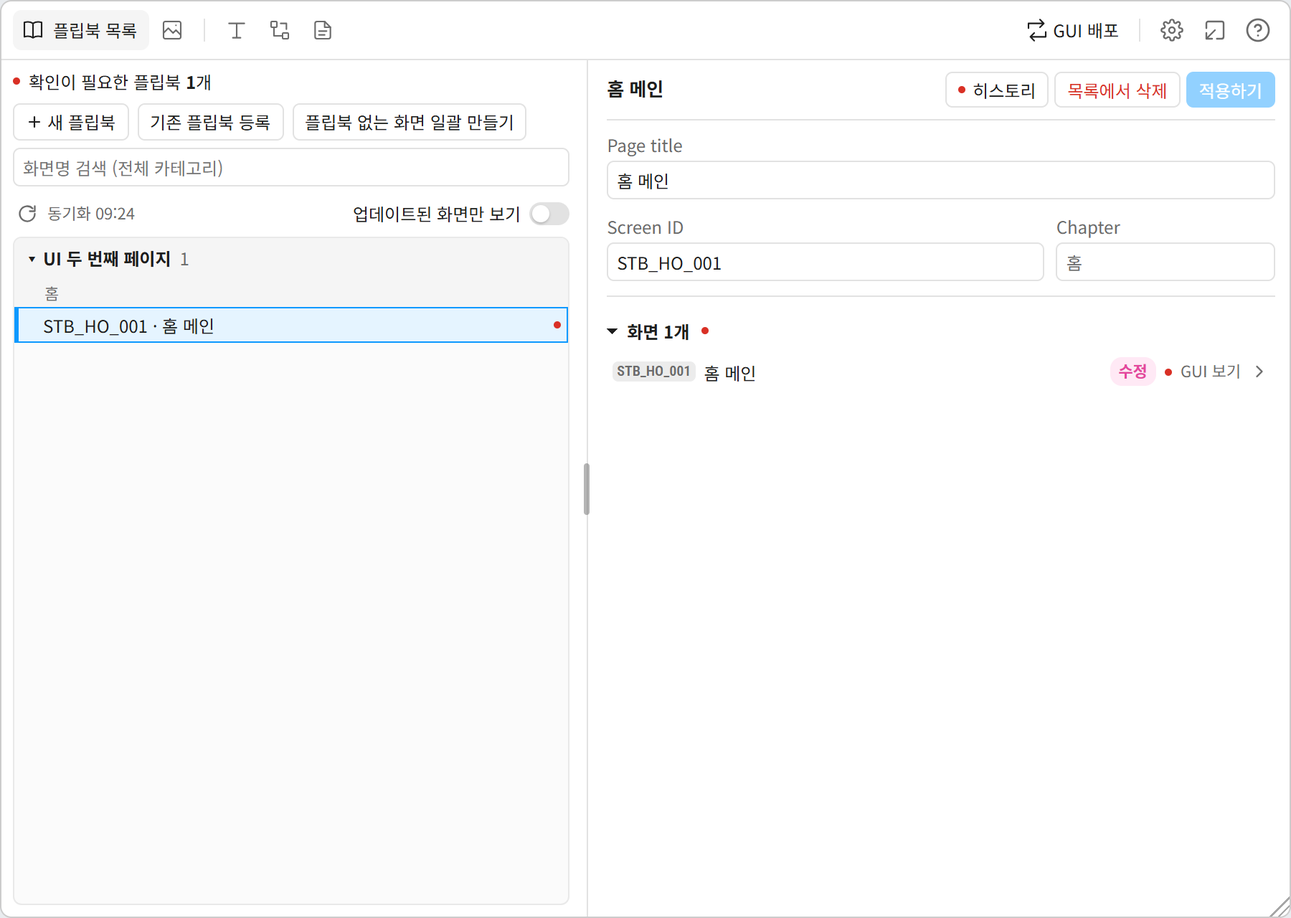
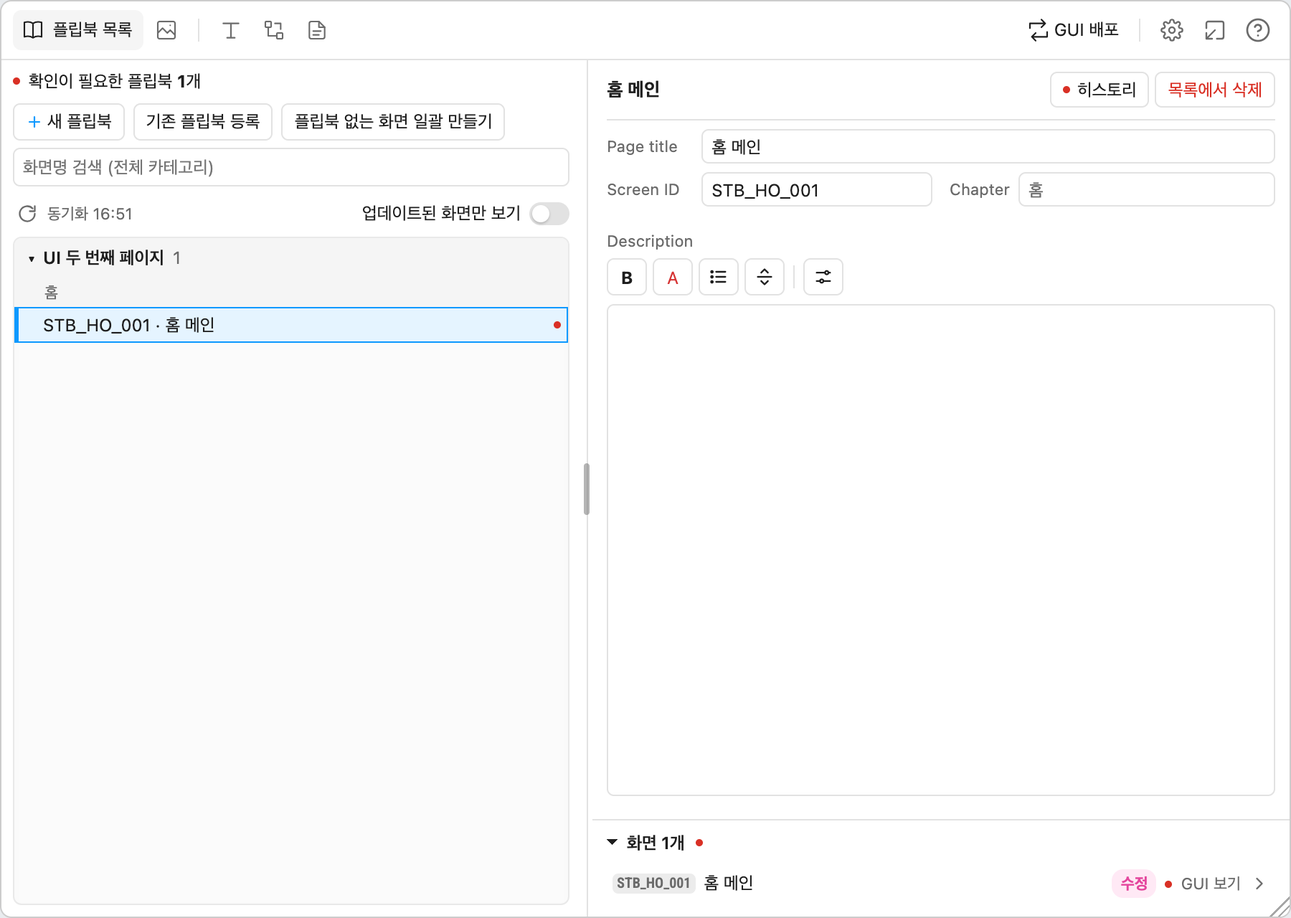
Review release changes and refresh pre-release help

diff --git a/release/guide.html b/release/guide.html
@@ -180,7 +180,7 @@ footer { color: var(--muted); font-size: 13px; text-align: center; margin-top: 2
     <li><b>실행</b><span class="ui">Plugins</span> → <span class="ui">Development</span> → <span class="ui">GUI·UI Publish</span>에서 <span class="ui">GUI Publish</span> 또는 <span class="ui">UI Flipbook</span>을 고릅니다. <kbd>Ctrl</kbd>+<kbd>/</kbd>(Mac은 <kbd>⌘</kbd>+<kbd>/</kbd>)로 열리는 빠른 실행 창에서 이름으로 찾아도 됩니다.</li>
   </ol>
   <h3>업데이트</h3>
-  <p>새 버전이 나오면 아래 링크에서 최신 zip을 받아, 처음 설치한 폴더에 압축을 풀어 <b>덮어씁니다</b>. 다시 불러올 필요 없이 플러그인을 다시 실행하면 새 버전이 적용됩니다. 지금 버전은 이 문서 맨 위에 적혀 있습니다.</p>
+  <p>새 버전은 <span class="ui">관리</span> → <span class="ui">업데이트</span>에서 확인합니다. <b>최신 버전</b>은 이 Figma 파일에서 사용한 가장 높은 배포 버전입니다. 현재 버전보다 높으면 관리 버튼과 메뉴에 파란 점이 표시됩니다. <span class="ui">최신 버전 받기</span>로 zip을 받아 처음 설치한 폴더에 압축을 풀어 <b>덮어씁니다</b>. 플러그인을 다시 실행하면 새 버전이 적용됩니다. 이 기능이 처음 포함된 버전으로 옮길 때는 아래 링크에서 직접 받으세요.</p>
   <a class="download" href="{{DOWNLOAD_URL}}">최신 버전 받기</a>
 </section>
 
@@ -190,14 +190,15 @@ footer { color: var(--muted); font-size: 13px; text-align: center; margin-top: 2
   <p>머리의 <span class="ui">플립북 관리</span>(UI Flipbook에서는 <span class="ui">GUI 배포</span>) 버튼을 누르면 플러그인을 다시 열지 않고 다른 작업 화면으로 바꿉니다.</p>
 
   <h3>관리</h3>
-  <p>왼쪽 메뉴에서 항목을 고르면 오른쪽에 내용이 나옵니다. 메뉴는 <b>작업 환경</b>(GUI 페이지 · 플립북 페이지 · 카테고리), <b>템플릿</b>(템플릿 · 화면 크기), <b>시스템</b>(제외 설정 · 자동 관리 페이지), <b>관리자</b> 순서입니다.</p>
+  <p>왼쪽 메뉴에서 항목을 고르면 오른쪽에 내용이 나옵니다. 메뉴는 <b>작업 환경</b>(GUI 페이지 · 플립북 페이지 · 카테고리), <b>템플릿</b>(템플릿 · 화면 크기), <b>시스템</b>(제외 설정 · 자동 관리 페이지 · 업데이트), <b>관리자</b> 순서입니다.</p>
   <ol class="steps">
     <li><b>GUI 페이지</b>변경사항을 확인할 GUI 원본 페이지를 추가합니다. 여러 페이지를 지정할 수 있습니다. 화면 프레임은 페이지 최상위나 Section 안(중첩 Section 포함)에 있어야 찾을 수 있습니다.</li>
     <li><b>카테고리</b>카테고리 이름·코드를 추가·수정·삭제하고 플랫폼 Prefix를 정합니다. 화면정보에서는 카테고리를 선택하거나 「관리」 링크로 이동합니다. 자동으로 만드는 Screen ID는 <code>{Prefix}_{카테고리 코드}_{번호 3자리}</code> 형식입니다(예: <code>STB_HO_001</code>). 코드를 비우고 추가하면 이름에서 두 글자로 자동 생성됩니다. 카테고리 이름은 플립북 Chapter에도 사용하며, Chapter 입력란은 비활성화됩니다.</li>
     <li><b>플립북 페이지</b>플립북을 둘 페이지를 하나 이상 추가합니다.</li>
     <li><b>템플릿</b>플립북을 만들 템플릿 목록입니다. <span class="ui">기본 템플릿 만들기</span>로 새 템플릿을 만들거나, 캔버스에서 프레임을 고른 뒤 <span class="ui">선택한 프레임을 템플릿으로 추가</span>를 누릅니다. 새 플립북은 <span class="ui">대표</span> 템플릿으로 만들고, 다른 템플릿으로 만든 플립북은 반영할 때 그 템플릿을 씁니다. 줄을 누르면 그 템플릿의 연결 항목이 아래에 나옵니다(아래 「템플릿 요건」).</li>
-    <li><b>화면 크기</b>플립북에 넣는 GUI 복사본의 최대 가로 크기입니다(기본 1440). <span class="ui">기본</span>은 원본이 이 값보다 클 때만 축소하고, <span class="ui">작게</span>는 그 0.49배로 넣습니다. GUI 영역의 크기와 Fill/Hug 설정은 템플릿 그대로 유지합니다.</li>
+    <li><b>화면 크기</b>플립북에 넣는 GUI 복사본의 최대 가로 크기입니다(기본 1440). 원본이 이 값보다 클 때 축소하며, GUI 영역의 크기와 Fill/Hug 설정은 템플릿 그대로 유지합니다.</li>
     <li><b>자동 관리 페이지</b>DATA 페이지 연결·생성·갱신 상태를 확인하고, GUI 썸네일 페이지를 만들거나 해당 페이지로 이동합니다. 두 페이지의 이름은 <b>[자동 관리] DATA</b>, <b>[자동 관리] GUI 썸네일</b>입니다.</li>
+    <li><b>업데이트</b>현재 버전과 이 파일에 기록된 최신 버전을 확인하고 최신 zip을 받습니다.</li>
     <li><b>관리자</b>반영 상태(미완료 반영과 재시도), 최근 감사 기록, 진단, 데이터 초기화를 한 화면에서 봅니다.</li>
   </ol>
   <p>작업자는 관리에서 등록하지 않고, GUI 배포 때 아래 줄에 직접 적습니다.</p>
@@ -290,14 +291,14 @@ footer { color: var(--muted); font-size: 13px; text-align: center; margin-top: 2
   <h2>UI Flipbook 사용법</h2>
   <h3>플립북 만들기</h3>
   <ol class="steps">
-    <li><b>새 플립북</b>목록 위 <span class="ui">새 플립북</span>을 누르면 고른 플립북 바로 다음 자리에, 고른 플립북이 없으면 지금 보고 있는 플립북 페이지에 새 플립북이 미리보기로 들어갑니다. 이미 만든 플립북도 드래그하거나 <kbd>Alt</kbd>+<kbd>↑</kbd><kbd>↓</kbd>로 옮길 수 있고, 다른 Section에 놓으면 그 Section으로 옮겨집니다. 만들 때 캔버스 배치에도 반영할지 묻습니다(<span class="ui">반영하지 않음</span>은 원래 순서로 되돌림). <span class="ui">만들기</span>를 누르기 전에는 저장되지 않습니다. 드래그하거나 <kbd>Alt</kbd>+<kbd>↑</kbd><kbd>↓</kbd>로 자리를 옮기고 X로 지웁니다.</li>
-    <li><b>위치·제목</b>오른쪽 <span class="ui">플립북 편집</span>에서 플립북을 놓을 페이지와 Section을 고르고, 그 아래 제목을 입력합니다. 새 Section도 추가할 수 있습니다. 목록에서는 이름을 더블클릭하거나 이름 오른쪽 연필을 눌러 그 자리에서 고칩니다. 제목을 비우면 첫 화면 이름(화면이 없으면 「새 플립북」)이 제목이 됩니다.</li>
-    <li><b>화면 고르기</b><span class="ui">화면 선택</span>에서 카테고리별로 화면을 고릅니다. 고른 화면은 후보 목록에 남고 아래 <span class="ui">선택된 화면</span> 썸네일 줄에 추가됩니다. 드래그하거나 <kbd>Alt</kbd>+<kbd>↑</kbd><kbd>↓</kbd>로 순서를 바꾸고, 썸네일의 X로 뺍니다. 화면 크기는 기본으로 적용됩니다. 화면을 고르지 않아도 만들 수 있습니다.</li>
-    <li><b>만들기</b><span class="ui">플립북 편집</span> 오른쪽 위 <span class="ui">플립북 N개 만들기</span>를 누르면 목록 순서대로 캔버스의 정한 자리에 만듭니다. <span class="ui">취소</span>는 확인 후 만들기 전 새 플립북을 모두 지웁니다.</li>
+    <li><b>새 플립북</b>목록 위 <span class="ui">새 플립북</span>을 누르면 고른 플립북 바로 다음 자리에, 고른 플립북이 없으면 지금 보고 있는 플립북 페이지에 새 플립북이 미리보기로 들어갑니다. 드래그하거나 <kbd>Alt</kbd>+<kbd>↑</kbd><kbd>↓</kbd>로 자리를 옮기고 X로 지웁니다. 기존 플립북도 옮길 수 있으며, <span class="ui">모두 적용하기</span>를 누르면 캔버스 배치에 반영할지 묻습니다(<span class="ui">반영하지 않음</span>은 원래 순서로 되돌림).</li>
+    <li><b>위치·제목</b>오른쪽에서 플립북을 놓을 페이지와 Section을 고르고, 그 아래 제목을 입력합니다. 새 Section도 추가할 수 있습니다. 목록에서는 이름을 더블클릭해 고칩니다. 제목을 비우면 첫 화면 이름(화면이 없으면 「새 플립북」)이 제목이 됩니다.</li>
+    <li><b>화면 고르기</b><span class="ui">화면 선택</span>에서 카테고리·검색·목록/그리드 보기로 화면을 찾고 행이나 카드를 클릭합니다. 고른 화면은 후보 목록에 남고 아래 <span class="ui">선택된 화면</span> 썸네일 줄에 추가됩니다. 드래그하거나 <kbd>Alt</kbd>+<kbd>↑</kbd><kbd>↓</kbd>로 순서를 바꾸고, 썸네일의 X로 뺍니다. 화면을 고르지 않아도 만들 수 있습니다.</li>
+    <li><b>만들기</b>상세 오른쪽 위 <span class="ui">만들기</span>는 그 플립북 하나를 만듭니다. 맨 아래 <span class="ui">모두 적용하기</span>는 새 플립북과 기존 플립북의 수정을 함께 반영합니다. <span class="ui">전체 취소</span>는 확인 후 아직 반영하지 않은 만들기·수정을 버립니다.</li>
   </ol>
   <figure>
     <img src="screens/ui-create.png" alt="새 플립북을 목록에 넣고 페이지·Section을 정한 뒤 화면을 선택한 모습">
-    <figcaption>새 플립북은 왼쪽 목록에 미리보기로 들어가고, 오른쪽에서 페이지·Section·화면을 정합니다. 오른쪽 위 「플립북 N개 만들기」로 캔버스에 만듭니다.</figcaption>
+    <figcaption>새 플립북은 왼쪽 목록에 미리보기로 들어가고, 오른쪽에서 페이지·Section·화면을 정합니다. 오른쪽 위 「만들기」는 그 플립북 하나만 만듭니다.</figcaption>
   </figure>
   <ul>
     <li><span class="dot yellow"></span>노란 점은 플립북이 아직 없는 화면, <span class="dot gray"></span>회색 점은 새 플립북에서 고른 화면입니다.</li>
@@ -307,10 +308,10 @@ footer { color: var(--muted); font-size: 13px; text-align: center; margin-top: 2
 
   <h3>플립북 관리 형식</h3>
   <p>목록에는 <code>Screen ID · Page title</code> 형식의 프레임 이름을 표시합니다. 이름을 더블클릭하면 Page title만 고칩니다.</p>
-  <p>목록에서 플립북 하나를 고르면 상세 제목 줄 오른쪽에 <span class="ui">히스토리</span> · <span class="ui">목록에서 삭제</span> · <span class="ui">적용하기</span>가 있고, 그 아래에 <b>Page title</b>, <b>Screen ID · Chapter</b>, 들어 있는 <b>화면 N개</b>가 나옵니다. Page title과 Screen ID를 고치고 <span class="ui">적용하기</span>를 누르면 캔버스의 제목·Screen ID·Chapter와 프레임 이름(<code>Screen ID · Page title</code>)이 바로 바뀝니다. 바꾼 내용이 없으면 적용하기는 누를 수 없습니다. Chapter는 Screen ID의 두 번째 코드에 대응하는 GUI 카테고리 이름으로 자동으로 정해지며, Section은 놓는 자리로만 씁니다. 제목의 <code>기능 - 상태</code> 형식은 검사하지 않습니다.</p>
+  <p>목록에서 플립북 하나를 고르면 상세에 <b>Page title</b>, <b>Screen ID · Chapter</b>, <b>Description</b>, 아래 고정 영역의 <b>화면 N개</b>가 나옵니다. 평소 제목 줄에는 <span class="ui">히스토리</span> · <span class="ui">목록에서 삭제</span>가 있고, Page title·Screen ID·Description을 고치면 <span class="ui">취소</span> · <span class="ui">적용하기</span>로 바뀝니다. 적용하면 캔버스의 제목·Screen ID·Chapter·Description과 프레임 이름(<code>Screen ID · Page title</code>)이 바뀝니다. Chapter는 Screen ID의 두 번째 코드에 대응하는 GUI 카테고리 이름으로 자동으로 정해지며, Section은 놓는 자리로만 씁니다. 제목의 <code>기능 - 상태</code> 형식은 검사하지 않습니다.</p>
   <p>화면이 있으면 첫 화면 ID 하나가 기본값입니다. 화면이 없으면 해당 기기·Chapter의 <code>_POLICY</code>, <code>_POLICY_02</code> 순서로 ID를 제안합니다. 카테고리를 알 수 없는 Section에서는 ID를 직접 입력합니다. 관리에서 Prefix·카테고리 코드를 바꾸면 플립북의 Screen ID도 함께 바뀝니다.</p>
   <p><b>화면 N개</b> 목록은 화면마다 한 줄입니다. 마우스를 올리면 썸네일이 보이고, <span class="ui">GUI 보기</span>를 누르면 그 화면의 GUI 원본으로 이동합니다.</p>
-  <figure><img src="screens/ui-identity.png" alt="플립북 상세: 히스토리·목록에서 삭제·적용하기 버튼, Page title, Screen ID와 Chapter, 화면 목록"><figcaption>Page title·Screen ID를 고치고 「적용하기」를 누릅니다. Chapter는 Screen ID에서 자동으로 정해집니다.</figcaption></figure>
+  <figure><img src="screens/ui-identity.png" alt="플립북 상세: Page title, Screen ID와 Chapter, Description, 아래 고정된 화면 목록"><figcaption>Page title·Screen ID·Description을 고치면 「취소」와 「적용하기」가 나타납니다. Chapter는 Screen ID에서 자동으로 정해집니다.</figcaption></figure>
   <h3>플립북 목록</h3>
   <p>직접 만든 플립북도 목록에 넣을 수 있습니다. 관리에서 그 페이지를 플립북 페이지로 지정하고, 캔버스에서 플립북의 바깥쪽 프레임을 선택한 뒤 <span class="ui">기존 플립북 등록</span>을 누르세요. 여러 프레임을 함께 등록할 수 있고, 다시 눌러도 중복 추가하지 않습니다. 이름·내용·위치·크기를 유지하며, 일반 화면 레이어를 GUI 원본에 자동 연결하지는 않습니다.</p>
   <ul>
@@ -349,11 +350,11 @@ footer { color: var(--muted); font-size: 13px; text-align: center; margin-top: 2
   <p>새 템플릿 플립북의 초기 상태는 <b>작성 전</b>이며 이후 가장 최근에 받은 GUI 또는 UI 태그를 표시합니다. 확인 완료의 기본 상태는 <b>현행</b>(이전 이름 「최신」)입니다.</p>
 
   <h3>텍스트 편집기</h3>
-  <p>Description에 중첩 목록, 굵은 글씨, 확인이 필요한 내용의 빨간 글씨를 넣을 때 씁니다. 머리의 <span class="ui">텍스트 편집기</span> 탭에서 합니다. 플립북 안의 아무 레이어나 고르면 그 플립북의 Description에 굵은 제목 줄마다 제목·본문을 묶어 넣고, 플립북 밖의 텍스트 레이어 하나를 고르면 그 레이어에만 넣습니다. 플립북 밖의 프레임 하나를 고르면 그 안에 같은 제목·본문 묶음을 오토 레이아웃 프레임으로 감싸 추가합니다.</p>
+  <p>플립북 Description은 플립북 상세에서 직접 불러와 고칩니다. <span class="ui">텍스트 편집기</span> 탭에서는 캔버스에서 고른 플립북의 Description이나 다른 텍스트·프레임에도 적용할 수 있습니다. 플립북 밖의 텍스트 레이어 하나를 고르면 그 레이어에만 넣고, 프레임 하나를 고르면 제목·본문 묶음을 오토 레이아웃 프레임으로 감싸 추가합니다.</p>
   <ol class="steps">
     <li><b>고르기</b>캔버스에서 플립북 안의 아무 레이어(여러 개, 플립북 전체도 가능), 플립북 밖의 텍스트 레이어나 프레임을 고릅니다. 탭 맨 위 줄에 대상(예: <span class="ui">대상: 플립북 「홈 메인」</span>)이 표시됩니다.</li>
-    <li><b>불러오기·편집</b><span class="ui">선택 영역 불러오기</span>를 누르면 고른 레이어의 내용이 글머리표·굵은 글씨 그대로 편집기에 들어옵니다. <kbd>Tab</kbd>은 목록 한 단계 깊게(일반 문단은 목록으로), <kbd>Shift</kbd>+<kbd>Tab</kbd>은 얕게 합니다. <kbd>Ctrl</kbd>+<kbd>B</kbd>로 굵게 하고, 도구 막대의 빨간 <b>A</b> 버튼으로 고른 글자를 빨간색으로 바꾸며, 줄 처음에 <code>- </code>를 치면 목록이 됩니다. 여러 줄을 골라 한 번에 바꿀 수 있고 <kbd>Ctrl</kbd>+<kbd>Z</kbd>로 되돌립니다. Description의 제목(<b>Policy</b>, <b>1. 항목명</b>, <b>Navigation</b>)은 글머리표 없이 줄 전체를 굵게 씁니다. 제목 아래부터 다음 제목 전까지가 그 제목의 본문이 됩니다.</li>
-    <li><b>적용</b><span class="ui">선택 영역에 적용</span>을 누르면 고른 레이어의 내용이 바뀝니다. Description은 굵은 제목 줄마다 제목·본문 레이어 묶음으로 기존 내용을 교체합니다. 텍스트 레이어 하나를 골랐다면 그 레이어의 글꼴·크기를 유지하고 목록·들여쓰기·굵기를 적용합니다. 텍스트 레이어와 새 Description의 행간은 140%, 목록 간격(List Spacing)은 2로 적용합니다. 색은 기존 레이어와 관계없이 빨간색 지정 범위만 빨간색으로, 나머지는 #333333으로 적용합니다. 프레임을 골랐다면 그 프레임 폭에 맞춘 오토 레이아웃 프레임(간격 12, 여백 왼쪽·오른쪽 12·위 8·아래 16)으로 묶음을 감싸 맨 아래에 추가하며, 누를 때마다 새로 추가됩니다. 굵은 글씨에는 같은 글꼴의 Bold(없으면 SemiBold 등) 스타일이 필요합니다.</li>
+    <li><b>불러오기·편집</b><span class="ui">선택 영역 불러오기</span>를 누르면 고른 레이어의 내용이 글머리표·굵은 글씨 그대로 편집기에 들어옵니다. <kbd>Tab</kbd>은 목록 한 단계 깊게(일반 문단은 목록으로), <kbd>Shift</kbd>+<kbd>Tab</kbd>은 얕게 합니다. <kbd>Ctrl</kbd>+<kbd>B</kbd>로 굵게 하고, 도구 막대의 빨간 <b>A</b> 버튼으로 고른 글자를 빨간색으로 바꾸며, 줄 처음에 <code>- </code>를 치면 목록이 됩니다. <code>---</code> 줄이나 여백 버튼은 빈 여백 프레임을 넣습니다. 서식 도구를 펼치면 Gap·Padding·글자 서식·여백 높이를 고칠 수 있습니다. Description의 제목(<b>Policy</b>, <b>1. 항목명</b>, <b>Navigation</b>)은 글머리표 없이 줄 전체를 굵게 씁니다.</li>
+    <li><b>적용</b><span class="ui">선택 영역에 적용</span>을 누르면 고른 레이어의 내용이 바뀝니다. Description은 굵은 제목 줄마다 제목·본문 레이어 묶음으로 기존 내용을 교체합니다. 텍스트 레이어 하나를 골랐다면 그 레이어에 목록·들여쓰기·굵기와 고른 글자 서식을 적용합니다. 기본 행간은 140%, 목록 간격(List Spacing)은 2입니다. 색은 빨간색 지정 범위만 빨간색으로, 나머지는 #333333으로 적용합니다. 프레임을 골랐다면 그 프레임 폭에 맞춘 오토 레이아웃 프레임으로 묶음을 감싸 맨 아래에 추가하며, 누를 때마다 새로 추가됩니다. 굵은 글씨에는 같은 글꼴의 Bold(없으면 SemiBold 등) 스타일이 필요합니다.</li>
   </ol>
   <figure>
     <img src="screens/ui-text.png" alt="텍스트 편집 탭: 굵게·빨간 글씨·목록 버튼, 글머리표·굵은 글씨·빨간 글씨로 보이는 편집기, 선택 영역 불러오기와 선택 영역에 적용 버튼">
@@ -384,7 +385,7 @@ footer { color: var(--muted); font-size: 13px; text-align: center; margin-top: 2
 
   <div class="note">
     <b>플러그인이 바꾸는 곳과 바꾸지 않는 곳</b>
-    플러그인은 템플릿에서 연결한 화면 이름(제목), Chapter, Screen ID 칸, 상태, GUI 영역, 히스토리 행과 프레임 이름만 바꿉니다. <b>Description과 콜아웃은 건드리지 않습니다.</b> 텍스트 편집 탭은 직접 고른 Description이나 텍스트 레이어에 <span class="ui">선택 영역에 적용</span>을 눌렀을 때만 그 레이어를 바꿉니다. GUI 영역 위에 올려 둔 마커는 GUI를 다시 넣을 때 같은 화면의 같은 위치로 따라 옮겨지고, 템플릿에 연결한 마커 컴포넌트로 놓은 마커는 GUI 화면 안에 있어도 지워지지 않습니다.
+    플러그인의 자동 반영은 템플릿에서 연결한 화면 이름(제목), Chapter, Screen ID 칸, 상태, GUI 영역, 히스토리 행과 프레임 이름만 바꿉니다. <b>Description과 콜아웃은 자동 반영에서 보존합니다.</b> Description은 플립북 상세의 <span class="ui">적용하기</span> 또는 텍스트 편집 탭의 <span class="ui">선택 영역에 적용</span>을 누를 때 바뀝니다. GUI 영역 위에 올려 둔 마커는 GUI를 다시 넣을 때 같은 화면의 같은 위치로 따라 옮겨지고, 템플릿에 연결한 마커 컴포넌트로 놓은 마커는 GUI 화면 안에 있어도 지워지지 않습니다.
   </div>
 </section>
 

diff --git a/src/core/copy.ts b/src/core/copy.ts
@@ -563,7 +563,7 @@ export const COPY = {
   uiTutorial036: '화면 크기',
   uiTutorial037: 'GUI 화면의 최대 가로 크기를 정해요. 기본값은 1440px이에요.',
   uiTutorial038: '새 플립북',
-  uiTutorial039: '새 플립북을 추가해 보세요. ‘만들기’를 누르면 캔버스에 생겨요.',
+  uiTutorial039: '새 플립북을 추가해 보세요. 상세의 ‘만들기’는 그 플립북 하나를 만들어요.',
   uiTutorial040: '자리 옮기기',
   uiTutorial041: '드래그해서 플립북 순서를 바꿀 수 있어요.',
   uiTutorial042: '위치·제목',
@@ -572,8 +572,8 @@ export const COPY = {
   uiTutorial045: '선택한 화면은 아래에 썸네일로 표시돼요. 드래그해 순서를 바꿀 수 있어요.',
   uiTutorial046: '화면 선택',
   uiTutorial047: '플립북에 넣을 화면을 고르세요. 노란 점은 아직 플립북이 없는 화면이에요.',
-  uiTutorial048: '만들기',
-  uiTutorial049: '고른 순서대로 플립북을 만들어요.',
+  uiTutorial048: '모두 적용하기',
+  uiTutorial049: '새 플립북과 고친 플립북을 함께 반영해요.',
   uiTutorial050: '플립북 없는 화면 일괄 만들기',
   uiTutorial051: '플립북이 없는 화면을 한 번에 만들 수 있어요.',
   uiTutorial052: '플립북 목록',
@@ -623,15 +623,17 @@ export const COPY = {
   uiNew043: '템플릿',
   uiNew044: '‘기본 템플릿 만들기’로 템플릿을 만들어요. 마커는 여기 연결한 ‘마커’ 컴포넌트로 놓으면 배포해도 사라지지 않아요.',
   uiNew045: '화면 크기',
-  uiNew046: '원본이 이 폭보다 넓으면 줄여서 넣어요. 플립북을 만들 때 화면마다 ‘기본’·‘작게’를 고를 수 있어요.',
+  uiNew046: '플립북에 넣는 GUI 원본이 이 폭보다 넓으면 줄여서 넣어요.',
   uiNew047: '플립북 정보',
-  uiNew048: 'Screen ID와 Page title을 고치고 ‘적용하기’를 누르면 프레임 이름이 ‘Screen ID · 제목’으로 맞춰져요.',
+  uiNew048: 'Screen ID·Page title·Description을 여기서 고쳐요. 수정 중에는 ‘취소’와 ‘적용하기’가 보여요.',
   uiNew049: '기존 플립북 등록',
   uiNew050: '목록에 없는 플립북은 캔버스에서 프레임을 고른 뒤 ‘기존 플립북 등록’으로 추가해요.',
   uiNew051: 'GUI 목록',
   uiNew052: '화면을 클릭하거나 캔버스로 드래그해 붙여요. ‘그리드 보기’로 썸네일을 보고, 링크 숫자로 쓴 곳을 찾아요.',
   uiNew053: '빨간 글자',
   uiNew054: '확인이 필요한 내용은 빨간 글자로 적어요. 플립북에 적용해도 빨간색으로 들어가요.',
+  uiNew055: '업데이트',
+  uiNew056: '이 파일에서 사용한 가장 높은 배포 버전과 현재 버전을 비교해요. 새 버전이 있으면 여기서 받을 수 있어요.',
   // 변경 상태의 설명·툴팁 — src/ui/estimate.ts
   uiEstimate001: '플립북 UI 작성 영역', // 26
   uiEstimate003: '아직 등록되지 않은 프레임입니다. 화면 추가 또는 화면 바꾸기를 선택하세요.', // 28
@@ -1226,6 +1228,7 @@ export const COPY = {
   flipbookRemoveHint: '목록에서 뺍니다. 캔버스의 프레임은 지우지 않고 기록도 남기며, 그 안의 GUI는 더 바뀌지 않습니다. 되살리려면 그 프레임을 골라 「기존 플립북 등록」을 누르세요.',
   flipbookRemoveRestore: '캔버스의 프레임은 그대로 두었습니다. 되살리려면 그 프레임을 골라 「기존 플립북 등록」을 누르세요.',
   flipbookTitleConflict: '제목 변경 준비 중 플립북이 수정되었습니다. 다시 시도하세요.',
+  flipbookDescriptionConflict: 'Description이 다른 곳에서 수정되었습니다. 플러그인을 다시 열어 확인하세요.',
   // 마커 옮기기: 마커를 옮길 프레임의 변환을 되돌릴 수 없음(크기 0 등). 마커가 지워지지 않게 그 화면은 바꾸지 않는다 — src/figma/markers.ts
   markerTransformFailed: '마커 위치를 계산하지 못해 이 화면을 바꾸지 않았습니다. 마커를 옮길 프레임의 크기가 0인지 확인하세요.',
   // GUI 등록 방식 아코디언의 설명과 화면 바꾸기의 새 버전·구 버전 버튼(2026-11-03 사용자 요청) — src/ui/app.ts

diff --git a/src/controller.ts b/src/controller.ts
@@ -8,7 +8,8 @@ import { dataModel } from './core/data.ts';
 import { chapterName, flipbookView, guiKey, validGuiWidth } from './core/flipbook.ts';
 import { canvasSections, checkMoves, followCanvasSections, importGuiUpdates, markReviewed, moveFlipbooks, pageSections, pinPolicyIds, planFlipbooks, plannedFlipbookTitle, removeFlipbooks, renameFlipbook, retireFlipbooks, type FlipbookMove, type FlipbookRequest, type ReviewRequest } from './core/flipbooks.ts';
 import type { Draft } from './core/drafts.ts';
-import type { SelectionWrite } from './core/description.ts';
+import { sameLayout, type SelectionWrite } from './core/description.ts';
+import { serializeRichText } from './core/richText.ts';
 import { flipbookHistoryRows, guiHistoryRows } from './core/history.ts';
 import { guiRecordInfos, guiScreens } from './core/guiScreens.ts';
 import { acknowledgeChange, addDelivery, upgradeBaseline, buildPlan, commitPlan, setDeliveryState, type BatchComment, unfinishedDeliveries, type CommitInput, type Plan } from './core/publish.ts';
@@ -1527,11 +1528,17 @@ export class Controller {
     const failed: { id: string; message: string }[] = [];
     for (const edit of edits) {
       try {
+        this.store.reload();
+        if (this.store.state.flipbooks.get(edit.id)?.rev !== edit.rev) throw new Error(COPY.flipbookTitleConflict);
         if (edit.identity) await this.renameFlipbook(edit.id, edit.identity.title, edit.identity.screenId, edit.rev, true);
         if (edit.description) {
           const fb = this.store.state.flipbooks.get(edit.id);
           if (!fb?.pageId) throw new Error(COPY.controller063);
-          await this.host.writeFlipbookDescription({ flipbookId: edit.id, pageId: fb.pageId, nodeId: this.uiScans.find(u => u.flipbookId === edit.id)?.nodeId ?? undefined }, edit.description.paragraphs, edit.description.layout);
+          const item = { flipbookId: edit.id, pageId: fb.pageId, nodeId: this.uiScans.find(u => u.flipbookId === edit.id)?.nodeId ?? undefined };
+          const current = await this.host.readFlipbookDescription(item);
+          if (serializeRichText(current.paragraphs) !== serializeRichText(edit.description.before.paragraphs) || !sameLayout(current.layout, edit.description.before.layout))
+            throw new Error(COPY.flipbookDescriptionConflict);
+          await this.host.writeFlipbookDescription(item, edit.description.paragraphs, edit.description.layout);
         }
         applied.push(edit.id);
       } catch (error) {

diff --git a/test/operationScope.test.ts b/test/operationScope.test.ts
@@ -5,6 +5,9 @@ import { planFlipbooks, customSection } from '../src/core/flipbooks.ts';
 import { ensureSystemTags, systemTagId } from '../src/core/registry.ts';
 import { Store, memoryKV, keys } from '../src/core/store.ts';
 import type { ToUi } from '../src/core/wire.ts';
+import { cloneLayout, DEFAULT_TEXT_LAYOUT } from '../src/core/description.ts';
+import { parseRichText } from '../src/core/richText.ts';
+import { COPY } from '../src/core/copy.ts';
 
 function setup() {
   const actor = { id: 'u', name: 'Audit' };
@@ -125,6 +128,19 @@ test('stale identity drafts and font failures preserve saved identity', async ()
   assert.equal(prepared, true);
   assert.deepEqual(controller.store.state.flipbooks.get('fb1'), before);
   assert.equal(posted.filter(m => m.type === 'error').length, 2);
+});
+
+test('Description apply rejects a stale canvas value without overwriting it', async () => {
+  const { controller, host, store, posted } = setup();
+  const before = parseRichText('Old'), next = parseRichText('Mine'), changed = parseRichText('Other user');
+  const layout = cloneLayout(DEFAULT_TEXT_LAYOUT);
+  const writes: string[] = [];
+  host.readFlipbookDescription = async () => ({ paragraphs: changed, layout });
+  host.writeFlipbookDescription = async (_item, paragraphs) => { writes.push(paragraphs[0].text); };
+  await controller.handle({ type: 'applyFlipbookEdits', edits: [{ id: 'fb1', rev: store.state.flipbooks.get('fb1')!.rev,
+    description: { paragraphs: next, layout, before: { paragraphs: before, layout } } }] });
+  assert.deepEqual(writes, []);
+  assert.ok(posted.some(m => m.type === 'flipbookEditsApplied' && m.failed.some(f => f.message === COPY.flipbookDescriptionConflict)));
 });
 
 

diff --git a/src/ui/tutorial.ts b/src/ui/tutorial.ts
@@ -264,6 +264,10 @@ const UI_STEPS: Step[] = [
     spots: d => [d.q('.detail .new-place')],
   },
   {
+    title: COPY.uiTutorial046, body: COPY.uiTutorial047,
+    spots: d => [d.q('.detail .create-picker'), d.q('.detail .create-filter'), d.q('.detail .create-screen-list')],
+  },
+  {
     title: COPY.uiTutorial044, body: COPY.uiTutorial045,
     async prepare(d) {
       // 검색 결과는 플립북 없는 화면 일괄 만들기의 대상으로 남겨 둔다.
@@ -274,10 +278,6 @@ const UI_STEPS: Step[] = [
       scrollTop(d.q('.create-screen-list'));
     },
     spots: d => [d.q('.detail .create-selected-head'), d.q('.detail .create-selected-list')],
-  },
-  {
-    title: COPY.uiTutorial046, body: COPY.uiTutorial047,
-    spots: d => [d.q('.detail .create-picker'), d.q('.detail .create-filter'), d.q('.detail .create-screen-list')],
   },
   {
     title: COPY.uiTutorial048, body: COPY.uiTutorial049,
@@ -436,6 +436,11 @@ const NEW_UI_STEPS: Step[] = [
     title: COPY.uiNew045, body: COPY.uiNew046,
     async prepare(d) { await openAdmin(d, 'gui-width'); },
     spots: d => [d.q('details[data-form="gui-width"]')],
+  },
+  {
+    title: COPY.uiNew055, body: COPY.uiNew056,
+    async prepare(d) { await openAdmin(d, 'update'); },
+    spots: d => [d.q('details[data-form="update"]')],
   },
   {
     title: COPY.uiNew047, body: COPY.uiNew048,

diff --git a/src/figma/labeled.ts b/src/figma/labeled.ts
@@ -8,6 +8,17 @@ export const PASTE_GUI_KEY = 'pasteGui';
 export const LABELED_LAYOUT = 'labeled-v2';
 export const PREVIOUS_LAYOUT = 'mobile-v1';
 const TRACKED_PREFIX = '🔗 ';
+let labelFonts: Promise<void> | null = null;
+
+function loadLabelFonts(): Promise<void> {
+  if (!labelFonts) {
+    labelFonts = Promise.all([
+      figma.loadFontAsync({ family: 'Inter', style: 'Bold' }),
+      figma.loadFontAsync({ family: 'Inter', style: 'Medium' }),
+    ]).then(() => {}).catch(error => { labelFonts = null; throw error; });
+  }
+  return labelFonts;
+}
 
 export function trackedName(name: string): string {
   return name.startsWith(TRACKED_PREFIX) ? name : `${TRACKED_PREFIX}${name}`;
@@ -15,10 +26,7 @@ export function trackedName(name: string): string {
 
 // GUI 자체는 다시 배포할 수 있게 두고, 붙인 화면의 제목과 숨긴 Screen ID는 별도 레이어로 둔다.
 export async function labeledCopy(ns: string, gui: FrameNode, holder: FrameNode, code: string, name: string, key: string): Promise<FrameNode> {
-  await Promise.all([
-    figma.loadFontAsync({ family: 'Inter', style: 'Bold' }),
-    figma.loadFontAsync({ family: 'Inter', style: 'Medium' }),
-  ]);
+  await loadLabelFonts();
   const root = figma.createFrame();
   holder.appendChild(root);
   root.name = trackedName('GUI · 자동 업데이트');

diff --git a/src/ui/app.ts b/src/ui/app.ts
@@ -894,7 +894,7 @@ export function startApp(bridge: Bridge, root: HTMLElement): () => void {
     const draft = identityDrafts.get(id);
     if (draft && identityEdited(id)) edit.identity = { title: draft.title, screenId: draft.screenId };
     const d = descDrafts.get(id);
-    if (d?.status === 'ready' && descEdited(id)) edit.description = { paragraphs: d.doc, layout: d.layout };
+    if (d?.status === 'ready' && descEdited(id)) edit.description = { paragraphs: d.doc, layout: d.layout, before: { paragraphs: d.savedDoc, layout: d.savedLayout } };
     return edit.identity || edit.description ? edit : null;
   }
   // 수정 여부가 바뀌면 상세의 「적용하기」, 목록의 「수정 중」, 하단 줄을 맞춘다.

diff --git a/src/core/wire.ts b/src/core/wire.ts
@@ -136,7 +136,7 @@ export interface FlipbookEdit {
   id: string;
   rev: number;
   identity?: { title: string; screenId: string };
-  description?: { paragraphs: RichParagraph[]; layout: TextLayout };
+  description?: { paragraphs: RichParagraph[]; layout: TextLayout; before: { paragraphs: RichParagraph[]; layout: TextLayout } };
 }
 
 export type ToMain =
